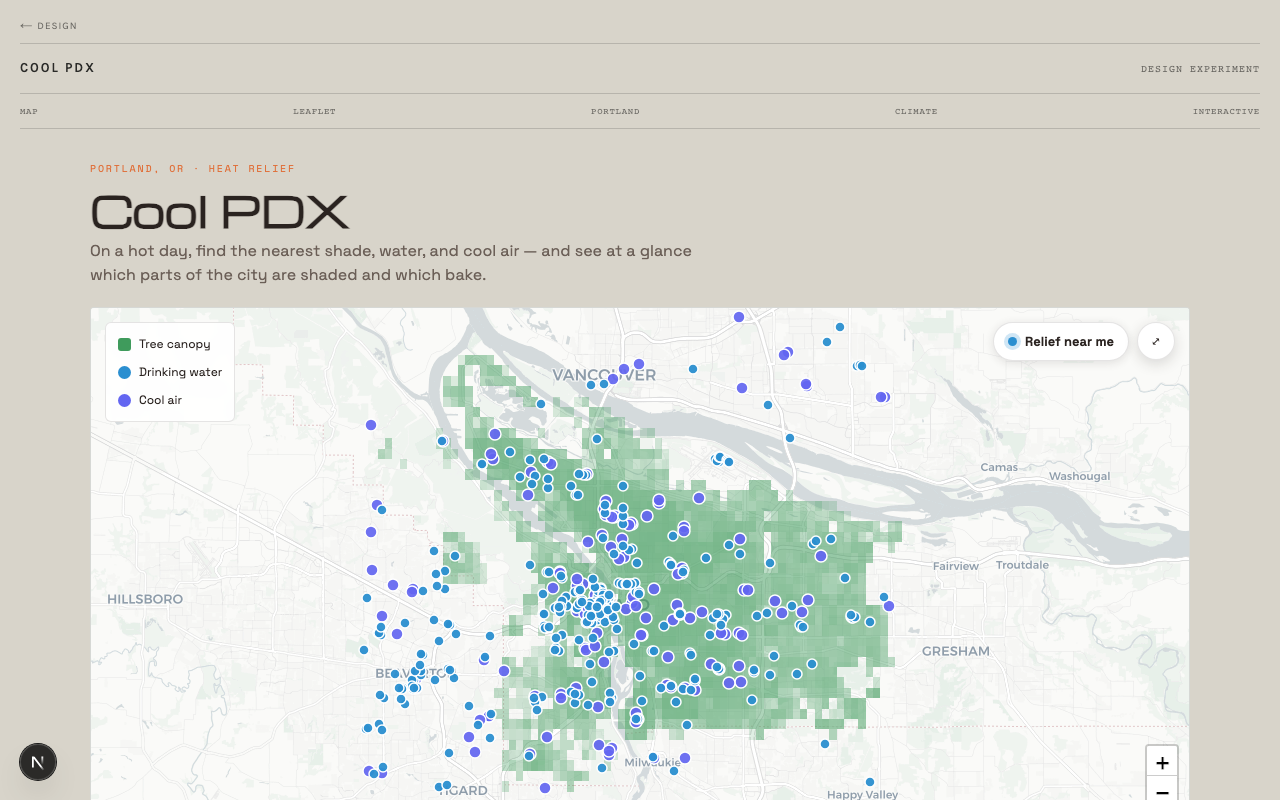
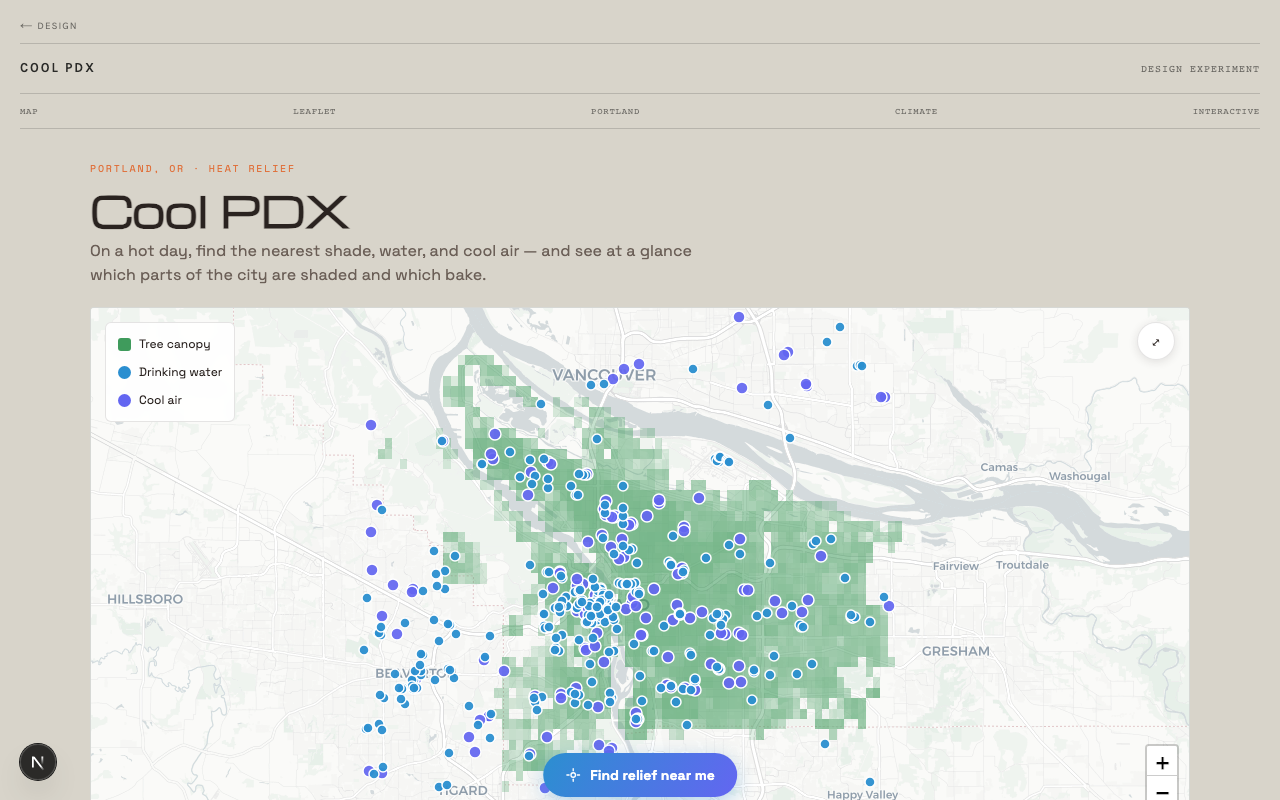
Cool PDX: promote relief to a hero CTA + richer located overlay
- 'Find relief near me' is now a prominent centered hero button (gradient, locate
  icon, gentle pulse) instead of a corner pill — clearly the primary action; it
  swaps out for the relief card once located
- Located results now read on the map: each target gets a halo + emphasized ring so
  it stands out among the dots, an on-map '~N min walk' label, and a route line that
  animates/flows toward the resource
- 'You are here' gets a halo for visibility; respects reduced-motion; refresh screenshot

Changed region(s): [[0.4062, 0.9375, 0.5938, 1.0], [0.7812, 0.4062, 0.875, 0.4375]]

diff --git a/app/design-experiments/(experiments)/cool-pdx/styles.module.css b/app/design-experiments/(experiments)/cool-pdx/styles.module.css
@@ -136,6 +136,62 @@
   box-shadow: 0 4px 14px rgba(42, 35, 32, 0.16);
 }
 
+/* Hero "find relief near me" — the primary action, centered on the bottom */
+@keyframes heroPulse {
+  0%, 100% { box-shadow: 0 6px 20px rgba(43, 143, 208, 0.32); }
+  50% { box-shadow: 0 8px 28px rgba(99, 102, 241, 0.5); }
+}
+
+.locateHero {
+  position: absolute;
+  z-index: 500;
+  left: 50%;
+  bottom: 20px;
+  transform: translateX(-50%);
+  display: inline-flex;
+  align-items: center;
+  gap: 9px;
+  padding: 13px 22px;
+  border: 0;
+  border-radius: 999px;
+  background: linear-gradient(120deg, var(--water), var(--cool));
+  color: #fff;
+  font-family: var(--font-space-grotesk, 'Space Grotesk', sans-serif);
+  font-size: 14px;
+  font-weight: 700;
+  cursor: pointer;
+  box-shadow: 0 6px 20px rgba(43, 143, 208, 0.32);
+  animation: heroPulse 2.8s ease-in-out infinite;
+  transition: transform 0.15s ease;
+}
+
+.locateHero:hover {
+  transform: translateX(-50%) translateY(-1px);
+}
+
+.locateHero:disabled {
+  cursor: progress;
+  opacity: 0.9;
+  animation: none;
+}
+
+@media (max-width: 620px) {
+  .locateHero {
+    bottom: 14px;
+    font-size: 13.5px;
+    padding: 12px 20px;
+  }
+}
+
+/* Animated route line flowing toward each resource */
+.routeLine {
+  animation: routeFlow 0.9s linear infinite;
+}
+
+@keyframes routeFlow {
+  to { stroke-dashoffset: -16; }
+}
+
 /* "relief near me" button */
 .locateBtn {
   display: inline-flex;
@@ -523,7 +579,9 @@
   .header,
   .mapWrapper,
   .context,
-  .reliefCard {
+  .reliefCard,
+  .locateHero,
+  .routeLine {
     animation: none;
   }
 }

diff --git a/app/design-experiments/(experiments)/cool-pdx/components/MapView.tsx b/app/design-experiments/(experiments)/cool-pdx/components/MapView.tsx
@@ -203,19 +203,63 @@ export default function MapView({
         typeof window !== 'undefined' &&
         window.matchMedia('(prefers-reduced-motion: reduce)').matches
 
-      const connect = (to: [number, number] | undefined, color: string) => {
-        if (!to) return
+      // Each route: a flowing line toward the resource, a halo + emphasized ring so
+      // the target stands out among all the dots, and an on-map walk-time label.
+      const addRoute = (
+        spot: { coord: [number, number]; distM: number } | null | undefined,
+        color: string,
+      ) => {
+        if (!spot) return
+        const to = spot.coord
         L.polyline([userLocation, to], {
           color,
-          weight: 2.5,
-          opacity: 0.7,
-          dashArray: '2 6',
+          weight: 3,
+          opacity: 0.85,
+          dashArray: '1 7',
+          className: reduced ? '' : styles.routeLine,
           interactive: false,
         }).addTo(group)
+        L.circleMarker(to, {
+          radius: 15,
+          stroke: false,
+          fillColor: color,
+          fillOpacity: 0.16,
+          interactive: false,
+        }).addTo(group)
+        L.circleMarker(to, {
+          radius: 8,
+          color: '#ffffff',
+          weight: 2,
+          fillColor: color,
+          fillOpacity: 1,
+          interactive: false,
+        }).addTo(group)
+        const wm = Math.max(1, Math.round(spot.distM / 80))
+        L.marker(to, {
+          interactive: false,
+          icon: L.divIcon({
+            className: '',
+            iconSize: [0, 0],
+            iconAnchor: [0, 0],
+            html:
+              `<div style="position:absolute;transform:translate(-50%,-230%);white-space:nowrap;` +
+              `font:700 11px ui-sans-serif,system-ui,sans-serif;background:#fff;color:${color};` +
+              `border:1px solid ${color}66;padding:2px 8px;border-radius:999px;` +
+              `box-shadow:0 2px 8px rgba(42,35,32,0.2);">~${wm} min walk</div>`,
+          }),
+        }).addTo(group)
       }
-      connect(nearest?.fountain?.coord, WATER)
-      connect(nearest?.cooling?.coord, COOL)
+      addRoute(nearest?.fountain, WATER)
+      addRoute(nearest?.cooling, COOL)
 
+      // "You are here" — halo + solid dot for visibility.
+      L.circleMarker(userLocation, {
+        radius: 14,
+        stroke: false,
+        fillColor: '#2a2320',
+        fillOpacity: 0.1,
+        interactive: false,
+      }).addTo(group)
       L.circleMarker(userLocation, {
         radius: 7,
         fillColor: '#2a2320',

diff --git a/app/design-experiments/(experiments)/cool-pdx/CoolPdx.tsx b/app/design-experiments/(experiments)/cool-pdx/CoolPdx.tsx
@@ -27,6 +27,28 @@ const cooling = coolingRaw as unknown as CoolingCollection
 
 const ALL_LAYERS: LayerId[] = ['canopy', 'fountains', 'cooling']
 
+function LocateIcon() {
+  return (
+    <svg
+      width="16"
+      height="16"
+      viewBox="0 0 24 24"
+      fill="none"
+      stroke="currentColor"
+      strokeWidth="2"
+      strokeLinecap="round"
+      strokeLinejoin="round"
+      aria-hidden="true"
+    >
+      <circle cx="12" cy="12" r="3.4" />
+      <line x1="12" y1="2.5" x2="12" y2="5.8" />
+      <line x1="12" y1="18.2" x2="12" y2="21.5" />
+      <line x1="2.5" y1="12" x2="5.8" y2="12" />
+      <line x1="18.2" y1="12" x2="21.5" y2="12" />
+    </svg>
+  )
+}
+
 // Haversine distance in meters between two [lat, lon] points.
 function distMeters(a: [number, number], b: [number, number]): number {
   const R = 6371000
@@ -157,15 +179,6 @@ export default function CoolPdx() {
         <div className={styles.mapControls}>
           <button
             type="button"
-            className={styles.locateBtn}
-            onClick={findRelief}
-            disabled={locating}
-          >
-            <span className={styles.locateDot} />
-            {locating ? 'Locating…' : 'Relief near me'}
-          </button>
-          <button
-            type="button"
             className={styles.fsBtn}
             onClick={() => setFullscreen((v) => !v)}
             aria-label={fullscreen ? 'Exit fullscreen' : 'Fullscreen'}
@@ -175,6 +188,17 @@ export default function CoolPdx() {
           </button>
         </div>
         <LayerToggles visibleLayers={visibleLayers} onToggle={toggleLayer} />
+        {!nearest && (
+          <button
+            type="button"
+            className={styles.locateHero}
+            onClick={findRelief}
+            disabled={locating}
+          >
+            <LocateIcon />
+            {locating ? 'Finding nearby relief…' : 'Find relief near me'}
+          </button>
+        )}
         {nearest && <ReliefCard nearest={nearest} onClose={closeRelief} />}
       </div>
 